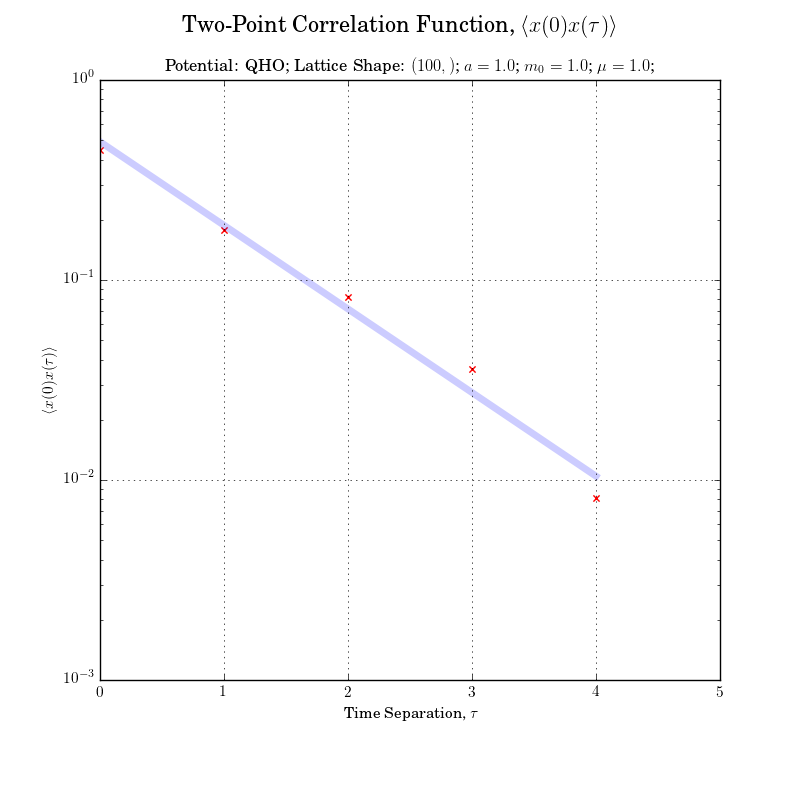
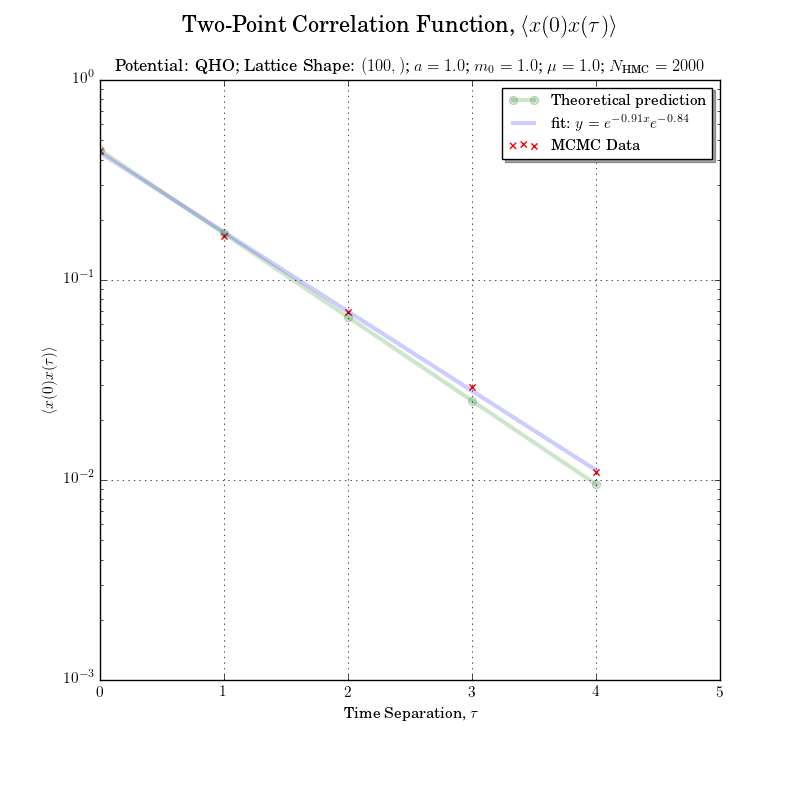
added <exp{-deltaH}> unit test issue:#14

diff --git a/test/test_expect.py b/test/test_expect.py
@@ -10,7 +10,7 @@ from correlations import corr
 from models import Basic_HMC as Model
 
 class Test(object):
-    """Runs tests for the expectation of <x(0)x(0)>
+    """Runs tests for expectation values
     
     Required Inputs
         rng :: np.random.RandomState :: must be able to call rng.uniform
@@ -21,7 +21,7 @@ class Test(object):
         spacing :: float :: lattice spacing
     """
     def __init__(self, rng, spacing=.1, length = 100, dim = 1, verbose = False):
-        self.id  = '<x(0)x(0)>'
+        self.id  = 'Expectations: <x(0)x(0)>, <exp{{-𝛿H}}>'
         self.rng = rng
         self.length = length
         self.dim = dim
@@ -29,8 +29,33 @@ class Test(object):
         self.lattice_shape = (self.length,)*self.dim
         
         self.n = dim*length
+    
+    def qhoDeltaH(self, n_steps = 20, step_size = .1, tol = 1e-1, print_out = True):
+        """Tests to see if <exp{-\delta H}> == 1
         
-    def qho(self, mu = 1., tol = 1e-2, print_out = True):
+        Optional Inputs
+            n_steps         :: int      :: LF trajectory lengths
+            step_size       :: int      :: Leap Frog step size
+            tol :: float :: tolerance level of deviation from expected value
+            print_out :: bool :: prints info if True
+        """
+        passed = True
+        pot = QHO()
+        meas_av_exp_dh, av_acc = self._runDeltaH(pot)
+        passed *= np.abs(meas_av_exp_dh - 1) <= tol
+        
+        if print_out:
+            utils.display(pot.name, passed,
+                details = {
+                    'Inputs':['a: {}'.format(self.spacing),'n steps: {}'.format(n_steps),
+                        'step size: {}'.format(step_size),
+                        'lattice: {}'.format(self.lattice_shape)],
+                    'Outputs':['<exp{{-𝛿H}}>: {}'.format(meas_av_exp_dh),
+                        '<Prob. Accept>: {}'.format(av_acc)]
+                    })
+        return passed
+    
+    def qhoCorellation(self, mu = 1., tol = 1e-2, print_out = True):
         """calculates the value <x(0)x(0)> for the QHO
         
         Optional Inputs
@@ -41,21 +66,41 @@ class Test(object):
         passed = True
         
         pot = QHO(mu=mu)
-        measured_xx = self._run(pot)
+        measured_xx = self._runCorellation(pot)
         expected_xx = corr.qho_theory(self.spacing, mu, self.n)
-        passed = np.abs(measured_xx - expected_xx) <= tol
+        
+        passed *= np.abs(measured_xx - expected_xx) <= tol
         
         if print_out:
             utils.display(pot.name, passed,
                 details = {
                     'Inputs':['a: {}'.format(self.spacing),'µ: {}'.format(mu),
                         'shape: {}'.format(self.lattice_shape), 'n: {}'.format(self.n)],
-                    'another output':['expected: {}'.format(expected_xx),
+                    'Outputs':['expected: {}'.format(expected_xx),
                         'measured: {}'.format(measured_xx)]
                     })
         return passed
     
-    def _run(self, pot, n_samples = 100, n_burn_in = 20):
+    def _runDeltaH(self, pot, n_samples = 100, n_burn_in = 20):
+        """Obtains the average exponentiated change in H for 
+        a given potential
+        
+        Optional Inputs
+            n_samples   :: int  :: number of samples
+            n_burn_in   :: int  :: number of burnin steps
+        """
+        x0 = np.random.random(self.lattice_shape)
+        model = Model(x0, pot, spacing=self.spacing)
+        model.sampler.accept.store_acceptance = True
+        model.run(n_samples=n_samples, n_burn_in=n_burn_in, verbose = True)
+        exp_delta_hs = np.asarray(model.sampler.accept.exp_delta_hs[n_burn_in:]).flatten()
+        accept_rates = np.asarray(model.sampler.accept.accept_rates[n_burn_in:]).flatten()
+        
+        meas_av_exp_dh  = np.asscalar(exp_delta_hs.mean())
+        av_acc          = np.asscalar(accept_rates.mean())
+        return (meas_av_exp_dh, av_acc)
+    
+    def _runCorellation(self, pot, n_samples = 100, n_burn_in = 20):
         """Runs the correlation function calculation
         and instantiates all the necessary functions
         using an arbitrary potential
@@ -76,4 +121,5 @@ if __name__ == '__main__':
     utils.logs.logging.root.setLevel(utils.logs.logging.DEBUG)
     test = Test(rng)
     utils.newTest(test.id)
-    test.qho()
+    test.qhoCorellation()
+    test.qhoDeltaH()

diff --git a/results/common/corr1d_x2.py b/results/common/corr1d_x2.py
@@ -1,6 +1,7 @@
 import numpy as np
 from copy import copy
 import matplotlib.pyplot as plt
+from scipy import stats
 
 from correlations import corr
 from models import Basic_HMC as Model
@@ -8,7 +9,7 @@ from utils import saveOrDisplay
 
 from plotter import Pretty_Plotter, PLOT_LOC
 
-def plot(c_fn, spacing, subtitle, save):
+def plot(c_fn, theory, spacing, subtitle, save):
     """Plots the two-point correlation function
     
     Required Inputs
@@ -41,16 +42,26 @@ def plot(c_fn, spacing, subtitle, save):
     steps = np.linspace(0, spacing*c_fn.size, c_fn.size, False)    # get x values
     log_y = np.log(c_fn)        # regress for logarithmic scale
     mask = np.isfinite(log_y)   # handles negatives in the logarithm
-    masked_x = steps[mask]
+    x = steps[mask]
+    y = log_y[mask]
     # linear regression of the exponential curve
-    masked_fit = np.exp(np.poly1d(np.polyfit(masked_x, log_y[mask], 1))(masked_x))
+    m, c, r_val, p_val, std_err = stats.linregress(x, y)
+    fit = np.exp(m*steps + c)
     
-    bf = ax[0].plot(masked_x, masked_fit, color='blue',
-         linewidth=5., linestyle = '-', alpha=0.2)
-    f = ax[0].scatter(steps, c_fn, color='red', marker='x')
+    if theory is not None:
+        th = ax[0].plot(steps, theory, color='green',linewidth=3., linestyle = '-', 
+            alpha=0.2, label = r'Theoretical prediction', marker='o')
+    
+    bf = ax[0].plot(steps, fit, color='blue',
+         linewidth=3., linestyle = '-', alpha=0.2, label=r'fit: $y = e^{'\
+             + '{:.2f}x'.format(m)+'}e^{'+'{:.2f}'.format(c) + r'}$')
+    f = ax[0].scatter(steps, c_fn, color='red', marker='x',
+        label=r'MCMC Data')
+    
     ax[0].set_xlim(xmin=0)
     ax[0].set_yscale("log", nonposy='clip')
     
+    ax[0].legend(loc='best', shadow=True, fontsize = pp.axfont)
     pp.save_or_show(save, PLOT_LOC)
     pass
 #
@@ -69,6 +80,8 @@ def main(x0, pot, file_name, n_samples, n_burn_in, spacing = 1., save = False):
         save :: bool :: True saves the plot, False prints to the screen
     """
     
+    c_len = 5
+    
     rng = np.random.RandomState()
     model = Model(x0, pot=pot, spacing=spacing, rng=rng)
     c = corr.Corellations_1d(model, 'run', 'samples')
@@ -76,22 +89,25 @@ def main(x0, pot, file_name, n_samples, n_burn_in, spacing = 1., save = False):
     subtitle = r"Potential: {}; Lattice Shape: ${}$; $a={:.1f}$".format(
         pot.name, x0.shape, spacing)
     length = model.x0.size
+    
     if hasattr(pot, 'mu'):
         m0 = pot.m0
         mu = pot.mu
-        th_x_sq = corr.qho_theory(spacing, mu, length)
-        print 'theory:   <x(0)x(0)> = {}'.format(th_x_sq)
-        subtitle += r"; $m_0={:.1f}$; $\mu={:.1f}$;".format(m0, mu)
+        th_x_sq = np.asarray(
+            [corr.qho_theory(spacing, mu, length, i) for i in range(c_len)])
+        print 'theory:   <x(0)x(0)> = {}'.format(th_x_sq[0])
+        subtitle += r"; $m_0={:.1f}$; $\mu={:.1f}$;".format(m0, mu) \
+                    + r' $N_{\text{HMC}}' + '={}$'.format(n_samples)
     else:
-        m0, mu = None
+        th_x_sq, m0, mu = None
     
     print 'Running Model: {}'.format(file_name)
     c.runModel(n_samples=n_samples, n_burn_in=n_burn_in, verbose = True)
-    c_fn = np.asarray([c.twoPoint(separation=i) for i in range(5)])
+    c_fn = np.asarray([c.twoPoint(separation=i) for i in range(c_len)])
     print 'Finished Running Model: {}'.format(file_name)
     
     av_x0_sq = c_fn[0]
     print 'measured: <x(0)x(0)> = {}'.format(av_x0_sq)
-    plot(c_fn, spacing, subtitle, 
+    plot(c_fn, th_x_sq, spacing, subtitle, 
         save = saveOrDisplay(save, file_name))
     

diff --git a/correlations/corr.py b/correlations/corr.py
@@ -2,15 +2,18 @@
 import numpy as np
 from hmc import checks
 
-def qho_theory(spacing, mu, length):
+def qho_theory(spacing, mu, length, separation=0.):
     amu = mu*spacing
     if np.abs(amu) <= 0.1: 
         r = 1. - amu + .5*amu**2
         print '> approximating R = 1. - aµ + aµ**2/2 as |aµ| <= 0.1 '
     else:
         r = 1. + .5*amu**2 - amu*np.sqrt(1. + .25*amu**2)
+    if separation == 0:
+        ratio = (1. + r**length)/(1. - r**length)
+    else:
+        ratio = (r**separation + r**(length-separation))/(1. - r**length)
     
-    ratio = (1. + r**length)/(1. - r**length)
     av_xx = ratio / (2.*mu*np.sqrt(1. + .25*amu**2))
     return av_xx
 

diff --git a/test/test_all.py b/test/test_all.py
@@ -23,7 +23,8 @@ logging.root.setLevel(logging.DEBUG)
 def testExpectations():
     test = test_expect.Test(rng=rng, spacing=.1, length = 100, dim = 1)
     utils.newTest(test.id)
-    assert test.qho(mu = 1., tol = 1e-2)
+    assert test.qhoCorellation(mu = 1., tol = 1e-2)
+    assert test.qhoDeltaH(tol = 1e-1)
     pass
 
 def testPotentials():

diff --git a/results/corr1d_x2_qho.py b/results/corr1d_x2_qho.py
@@ -14,5 +14,5 @@ spacing = 1.
 
 if '__main__' == __name__:
     corr1d_x2.main(x0, pot, file_name,
-        n_samples = 100, n_burn_in = 15, spacing = spacing,
+        n_samples = 2000, n_burn_in = 25, spacing = spacing,
         save = True)

diff --git a/results/metropolis_accRej_qho.py b/results/metropolis_accRej_qho.py
@@ -7,7 +7,7 @@ from hmc.potentials import Quantum_Harmonic_Oscillator as QHO
 file_name = __file__
 pot = QHO()
 
-n, dim = 10, 1
+n, dim = 100, 1
 x0 = np.random.random((n,)*dim)
 
 n_burn_in, n_samples = 15, 100
